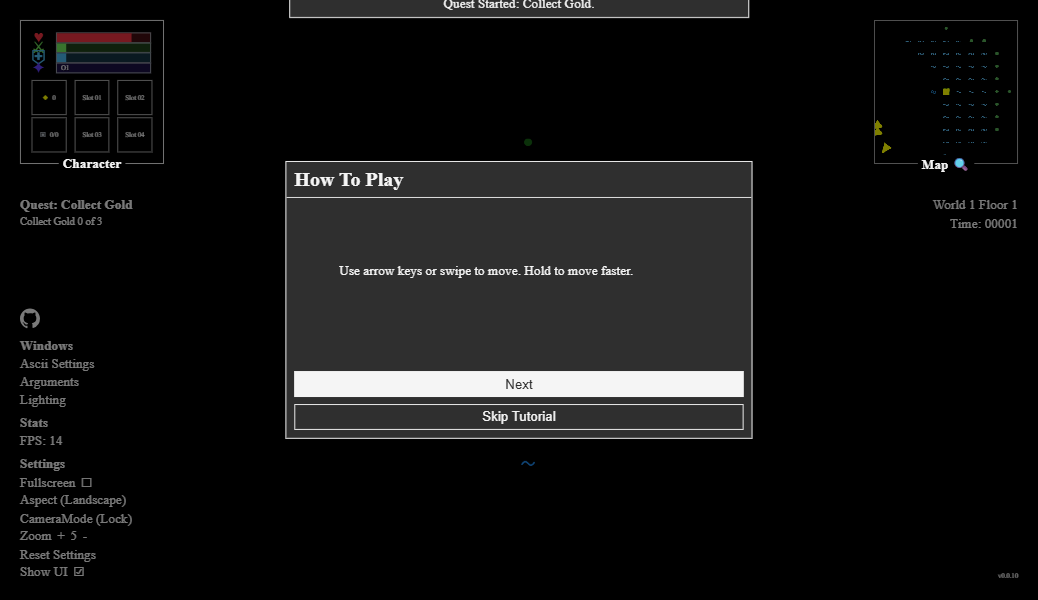
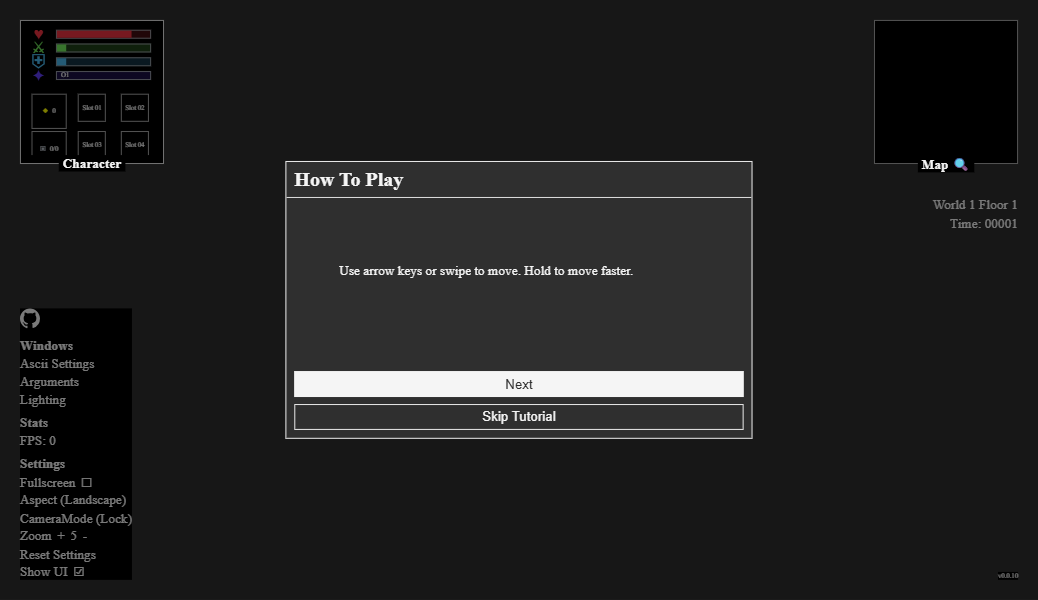
fix: restore minimap rendering contract

diff --git a/ascii-rpg/src/runtime/game-layer-babylon-lite/index.js b/ascii-rpg/src/runtime/game-layer-babylon-lite/index.js
@@ -71,7 +71,7 @@ import {
   discoverFromPlayer,
   isDiscovered,
 } from "./systems/fog-of-war-system.js";
-import { getMinimapEdgeIndicators, getMinimapMarkers } from "./systems/minimap-renderer.js";
+import { getMinimapEdgeIndicators, getMinimapMarkers, getMinimapWorldCellGraphic } from "./systems/minimap-renderer.js";
 import { canHandleMinimapScale, getMinimapCellLayout, getNextMinimapScale, MINIMAP_SCALE_LEVELS } from "./systems/minimap-zoom.js";
 import { createTransitionSystem, TRANSITION_PHASES } from "./systems/transition-system.js";
 import questData from "./data/quest_data.json";
@@ -298,7 +298,11 @@ export async function startGameLayer(container, initialPalette, initialFontId = 
       },
       drawCell: ({ localX, localY, glyph, discovered }) => {
         if (!discovered) return;
-        const graphic = { glyph, color: getPaletteStyle(palette, glyph).color };
+        const graphic = getMinimapWorldCellGraphic(world, fogOfWar, palette, {
+          x: sourceX + localX,
+          y: sourceY + localY,
+        });
+        if (!graphic) return;
         const raster = visual.rasters.get(glyph);
         if (!raster) return;
         const cacheKey = `${graphic.glyph}:${graphic.color}:${raster.width}`;
